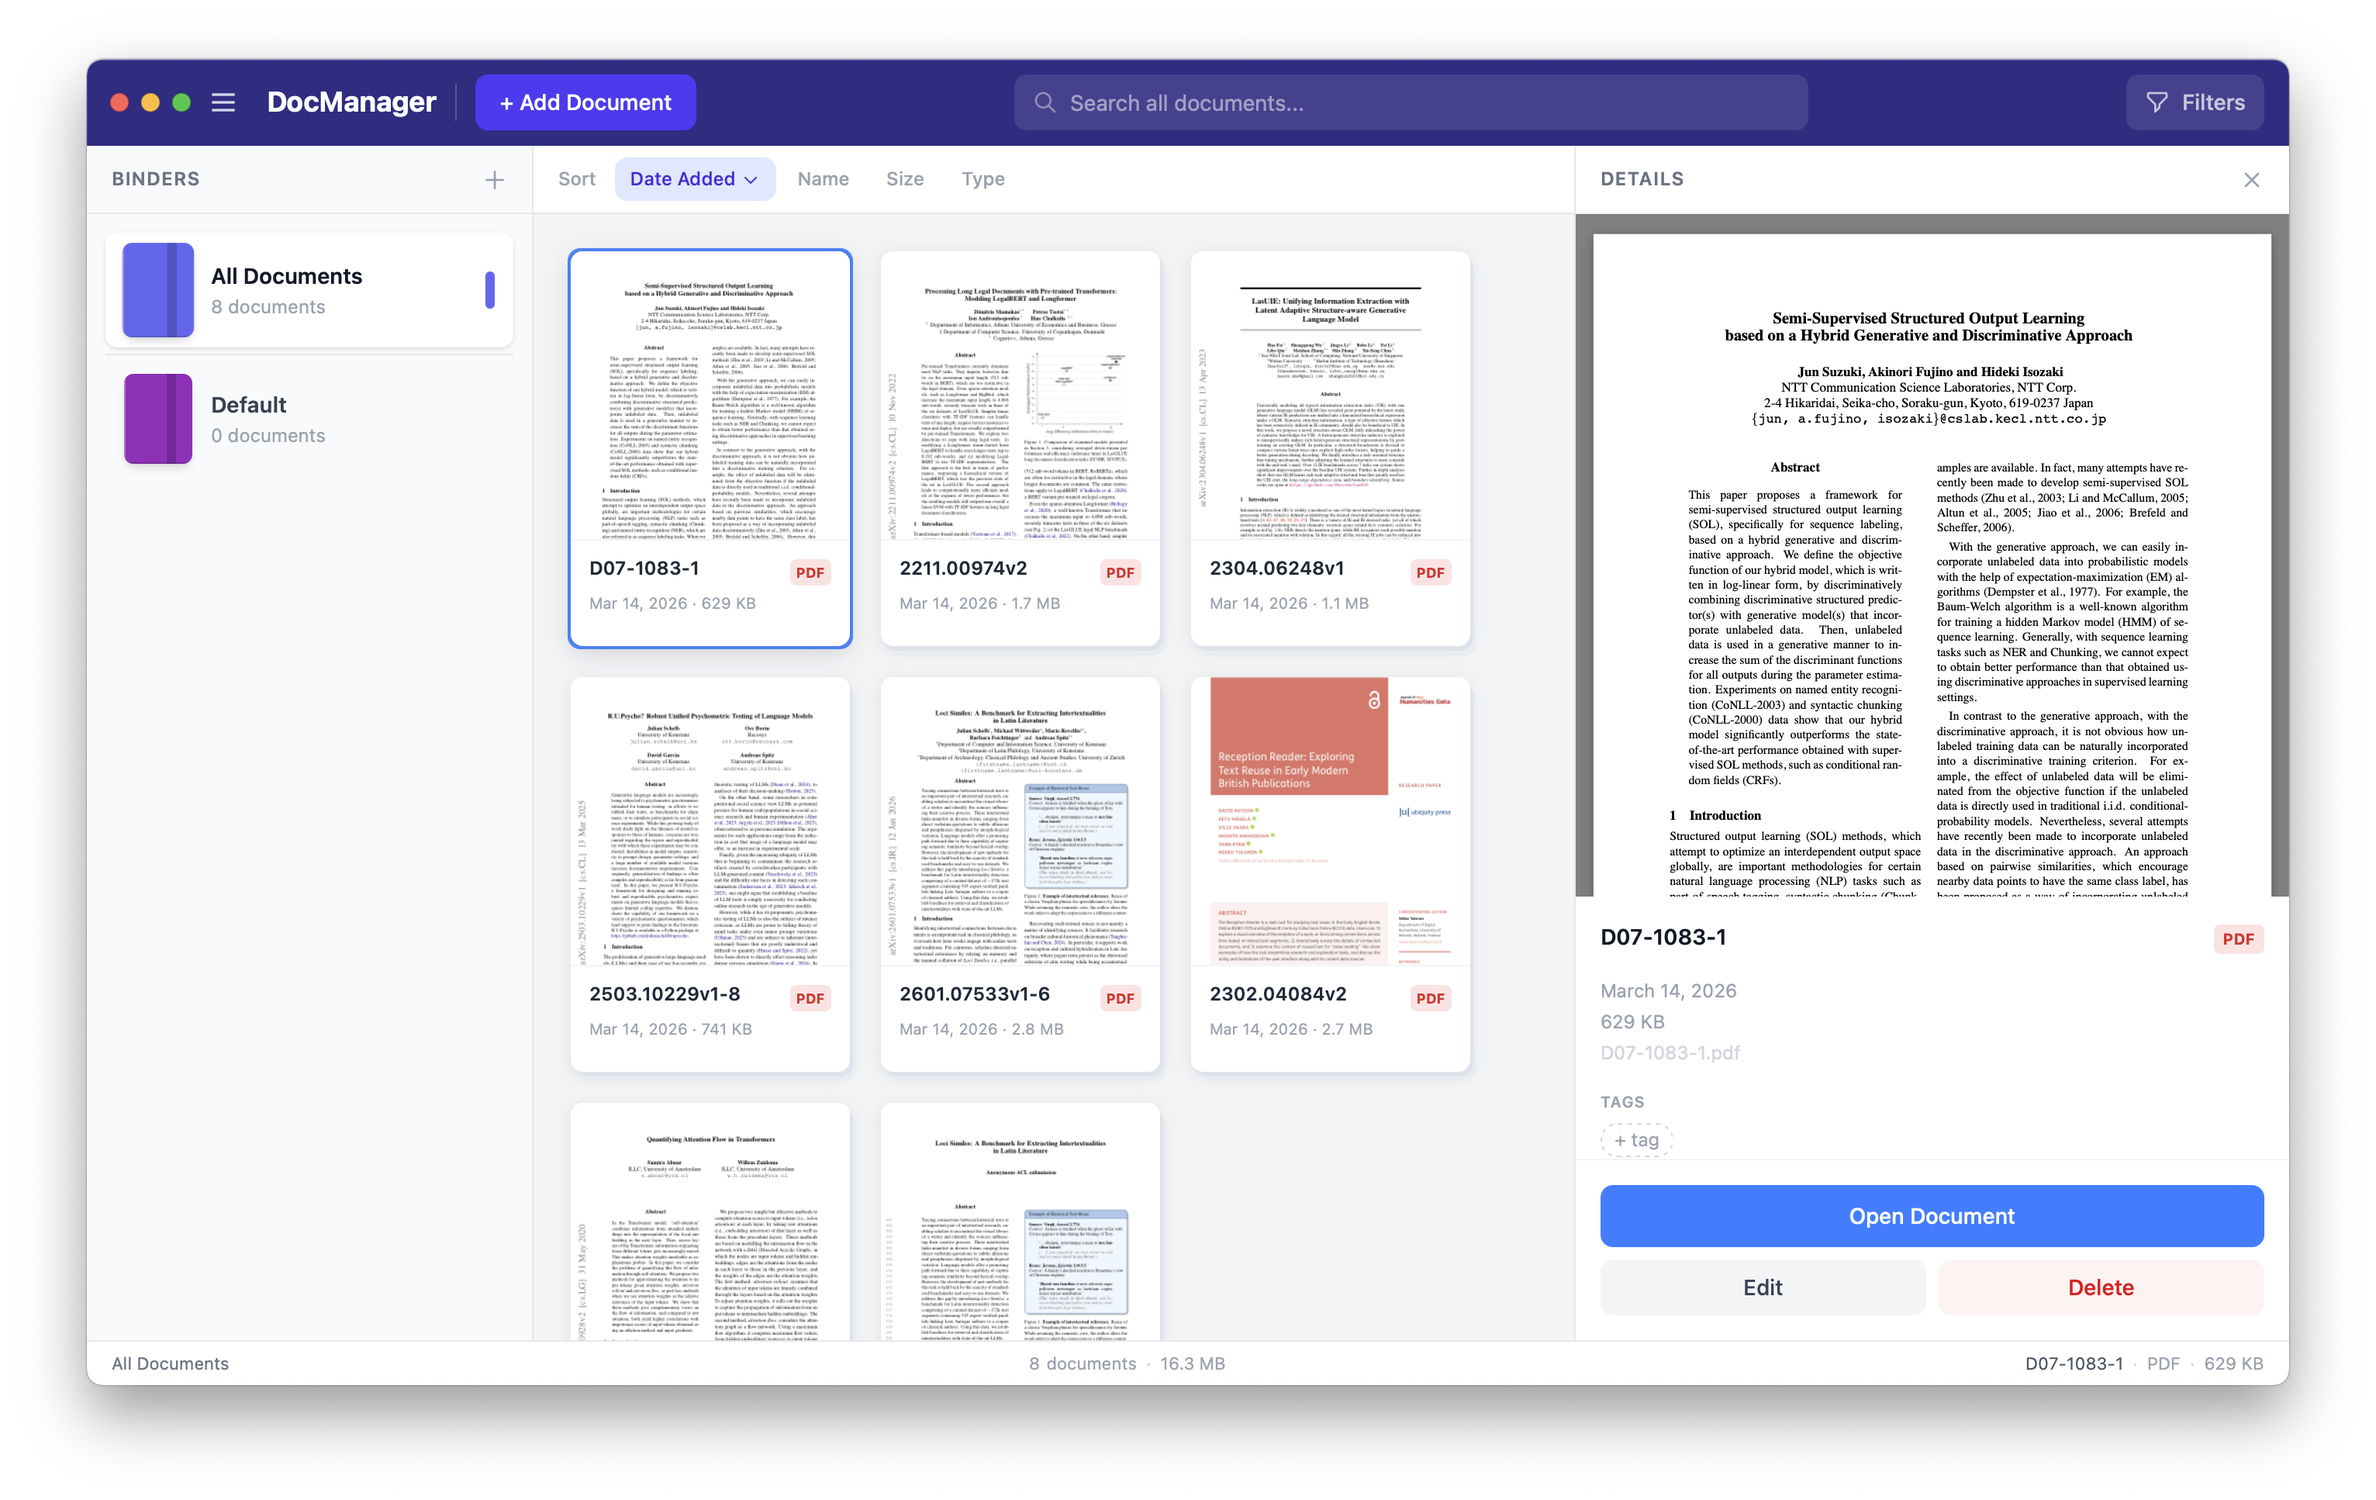
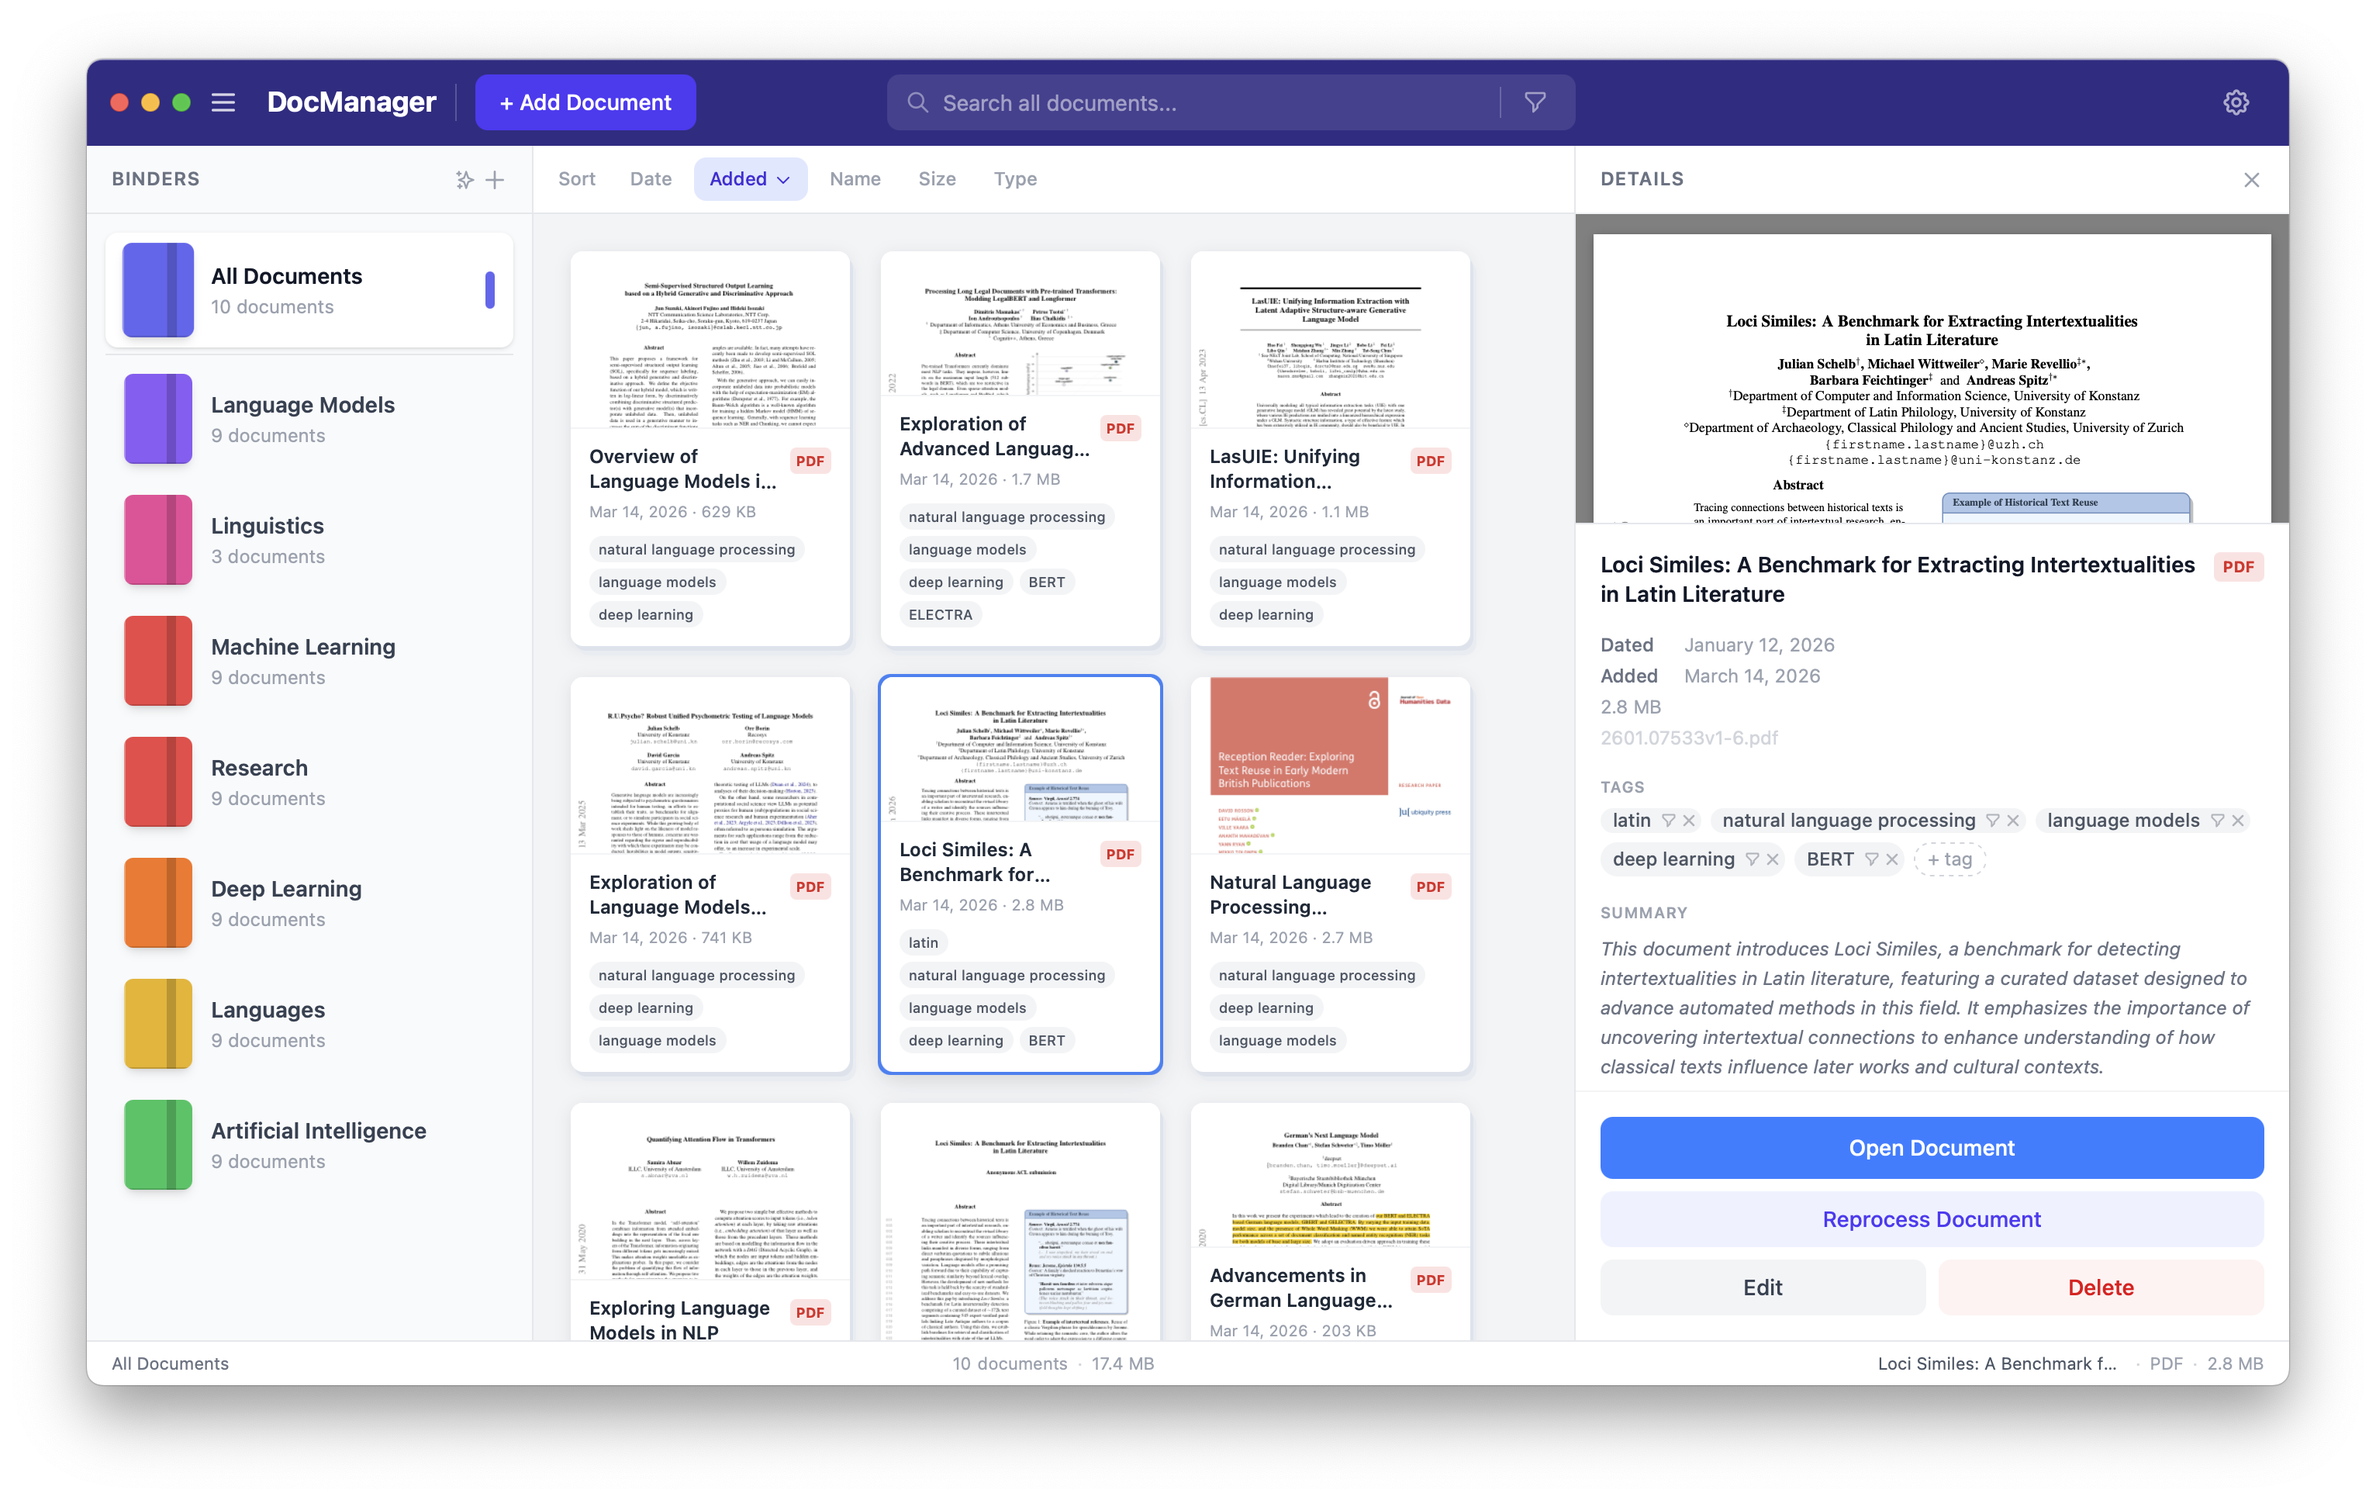
feat: implement AI-based binder suggestion functionality and integrate into UI

diff --git a/src/App.tsx b/src/App.tsx
@@ -12,6 +12,7 @@ import { SortControls } from "./components/SortControls";
 import { SettingsModal } from "./components/SettingsModal";
 import { useAppState } from "./hooks/useAppState";
 import { getAllTags, getBinderDocuments } from "./utils/binderUtils";
+import { suggestBindersWithAi } from "./lib/tauriCommands";
 import "./styles.css";
 
 function App() {
@@ -145,6 +146,52 @@ function App() {
     setSearchQuery("");
     setSelectedTags([]);
   };
+
+  // Create binders from all available tags — AI-grouped when API key is set,
+  // otherwise one binder per tag not already covered.
+  const BINDER_COLORS = [
+    "#6366f1", "#8b5cf6", "#ec4899", "#ef4444", "#f97316",
+    "#eab308", "#22c55e", "#14b8a6", "#3b82f6", "#06b6d4",
+  ];
+  const handleAutoOrganize = useCallback(async () => {
+    if (allTags.length === 0) return;
+
+    let colorIdx = binders.length;
+
+    if (openAiApiKey) {
+      // AI path: ask the model to group tags into meaningful binder categories
+      const suggestions = await suggestBindersWithAi(allTags).catch(() => null);
+      if (suggestions && suggestions.length > 0) {
+        const existingNames = new Set(binders.map((b) => b.name.toLowerCase()));
+        for (const s of suggestions) {
+          if (existingNames.has(s.name.toLowerCase())) continue;
+          await addBinder({
+            id: crypto.randomUUID(),
+            name: s.name,
+            color: BINDER_COLORS[colorIdx % BINDER_COLORS.length],
+            filterTags: s.tags,
+          });
+          colorIdx++;
+        }
+        return;
+      }
+    }
+
+    // Fallback: one binder per tag not already covered
+    const coveredTags = new Set(
+      binders.filter((b) => b.filterTags.length === 1).map((b) => b.filterTags[0])
+    );
+    const newTags = allTags.filter((t) => !coveredTags.has(t));
+    for (const tag of newTags) {
+      await addBinder({
+        id: crypto.randomUUID(),
+        name: tag.charAt(0).toUpperCase() + tag.slice(1),
+        color: BINDER_COLORS[colorIdx % BINDER_COLORS.length],
+        filterTags: [tag],
+      });
+      colorIdx++;
+    }
+  }, [binders, allTags, openAiApiKey, addBinder]);
 
   // Import files via native file picker
   const handleImport = useCallback(async () => {
@@ -338,6 +385,7 @@ function App() {
             onDeleteBinder={(b) =>
               setConfirmDelete({ type: "binder", id: b.id, title: b.name })
             }
+            onAutoOrganize={handleAutoOrganize}
           />
         </div>
 

diff --git a/src/components/BinderList.tsx b/src/components/BinderList.tsx
@@ -9,6 +9,7 @@ interface BinderListProps {
   onNewBinder: () => void;
   onEditBinder: (binder: Binder) => void;
   onDeleteBinder: (binder: Binder) => void;
+  onAutoOrganize: () => void;
 }
 
 function NotebookCover({
@@ -112,6 +113,7 @@ export function BinderList({
   onNewBinder,
   onEditBinder,
   onDeleteBinder,
+  onAutoOrganize,
 }: BinderListProps) {
   return (
     <aside className="w-72 min-w-72 h-full bg-gray-50 dark:bg-gray-850 border-r border-gray-200 dark:border-gray-700 flex flex-col shrink-0">
@@ -120,7 +122,17 @@ export function BinderList({
         <span className="text-xs font-semibold text-gray-500 dark:text-gray-400 uppercase tracking-wider">
           Binders
         </span>
-        <button
+        <div className="flex items-center gap-1">
+          <button
+            onClick={onAutoOrganize}
+            className="text-gray-400 hover:text-indigo-600 dark:hover:text-indigo-400 transition-colors"
+            title="Auto-generate binders from all tags"
+          >
+            <svg className="w-3.5 h-3.5" fill="none" stroke="currentColor" viewBox="0 0 24 24">
+              <path strokeLinecap="round" strokeLinejoin="round" strokeWidth={2} d="M5 3v4M3 5h4M6 17v4m-2-2h4m5-16l2.286 6.857L21 12l-5.714 2.143L13 21l-2.286-6.857L5 12l5.714-2.143L13 3z" />
+            </svg>
+          </button>
+          <button
             onClick={onNewBinder}
             className="text-gray-400 hover:text-indigo-600 dark:hover:text-indigo-400 transition-colors"
             title="New binder"
@@ -129,6 +141,7 @@ export function BinderList({
               <path strokeLinecap="round" strokeLinejoin="round" strokeWidth={2} d="M12 4v16m8-8H4" />
             </svg>
           </button>
+        </div>
       </div>
 
       <nav className="flex-1 overflow-y-auto p-3">

diff --git a/src/lib/tauriCommands.ts b/src/lib/tauriCommands.ts
@@ -44,3 +44,14 @@ export async function analyzeDocumentWithAi(
     existingTags,
   });
 }
+
+export interface BinderSuggestion {
+  name: string;
+  tags: string[];
+}
+
+export async function suggestBindersWithAi(
+  tags: string[]
+): Promise<BinderSuggestion[]> {
+  return invoke<BinderSuggestion[]>("suggest_binders_with_ai", { tags });
+}

diff --git a/src-tauri/src/ai.rs b/src-tauri/src/ai.rs
@@ -5,7 +5,7 @@ use std::process::Command;
 use base64::Engine;
 use serde::Deserialize;
 
-use crate::models::AiAnalysis;
+use crate::models::{AiAnalysis, BinderSuggestion};
 
 const IMAGE_TYPES: &[&str] = &["jpg", "jpeg", "png", "gif", "webp"];
 const MAX_CONTENT_CHARS: usize = 8_000;
@@ -149,7 +149,7 @@ pub async fn analyze_document(
 
     let system = serde_json::json!({
         "role": "system",
-        "content": "You are a document analysis assistant. Analyze the document provided and respond with a JSON object containing exactly four keys: \"title\" (the verbatim or near-verbatim title as it appears in the document — use the document's own heading, paper title, subject line, invoice number + vendor name, contract title, or equivalent identifier; only fall back to a concise descriptive title if the document has no explicit title), \"tags\" (an array of 3–7 lowercase topic/category tags; reuse tags from the existing list when appropriate), \"summary\" (exactly 2 complete sentences summarizing the main content and purpose), and \"correspondenceDate\" (the date the document was written, issued, received, or otherwise corresponds to — look for explicit dates in the body such as letter dates, invoice dates, contract dates, report dates; return a string in YYYY-MM-DD format, or null if no clear date is found). Return only valid JSON, no markdown, no extra text."
+        "content": "You are a document analysis assistant. Analyze the document provided and respond with a JSON object containing exactly four keys: \"title\" (the verbatim or near-verbatim title as it appears in the document — use the document's own heading, paper title, subject line, invoice number + vendor name, contract title, or equivalent identifier; only fall back to a concise descriptive title if the document has no explicit title), \"tags\" (an array of 3–7 lowercase thematic category tags — ONLY use broad, folder-like grouping terms that will apply to many documents, never to just one; good tags are domain areas (\"finance\", \"banking\", \"insurance\", \"tax\", \"invoice\", \"contract\", \"school\", \"university\", \"research\", \"machine-learning\", \"nlp\", \"medical\", \"legal\", \"government\", \"travel\", \"employment\", \"real-estate\") or organisation names (\"zdf\", \"deutsche-bank\", \"amazon\"); NEVER use specific technology names (\"BERT\", \"GPT\", \"transformer\"), proper nouns from the content, or any term that uniquely identifies this single document rather than a class of documents; for academic papers use only the research field (e.g. \"nlp\", \"computer-vision\", \"machine-learning\", \"physics\"); reuse tags from the existing list when appropriate), \"summary\" (exactly 2 complete sentences summarizing the main content and purpose), and \"correspondenceDate\" (the date the document was written, issued, received, or otherwise corresponds to — look for explicit dates in the body such as letter dates, invoice dates, contract dates, report dates; return a string in YYYY-MM-DD format, or null if no clear date is found). Return only valid JSON, no markdown, no extra text."
     });
 
     let tags_hint = if existing_tags.is_empty() {
@@ -240,4 +240,88 @@ pub async fn analyze_document(
         summary: result.summary.unwrap_or_default(),
         correspondence_date: result.correspondence_date,
     })
+}
+
+// ── Binder suggestion ─────────────────────────────────────────────────────────
+
+#[derive(Deserialize)]
+struct BinderResult {
+    name: Option<String>,
+    tags: Option<Vec<String>>,
+}
+
+pub async fn suggest_binders(
+    tags: &[String],
+    api_key: &str,
+) -> Result<Vec<BinderSuggestion>, String> {
+    if tags.is_empty() {
+        return Ok(vec![]);
+    }
+
+    let tag_list = tags.join(", ");
+
+    let body = serde_json::json!({
+        "model": "gpt-4o-mini",
+        "response_format": { "type": "json_object" },
+        "max_tokens": 400,
+        "messages": [
+            {
+                "role": "system",
+                "content": "You are a document organisation assistant. Given a list of document tags, group them into a small number of broad, meaningful binder categories. Each binder should be a high-level theme (e.g. 'Finance', 'Research', 'Legal', 'Insurance'). Use short, human-readable names (title-case, 1–3 words). Every tag must appear in exactly one binder. Return a JSON object with a single key \"binders\" whose value is an array of objects, each with keys \"name\" (string) and \"tags\" (array of strings from the input). Do not invent new tags. Return only valid JSON."
+            },
+            {
+                "role": "user",
+                "content": format!("Group these tags into binders: {}", tag_list)
+            }
+        ]
+    });
+
+    let client = reqwest::Client::new();
+    let resp = client
+        .post("https://api.openai.com/v1/chat/completions")
+        .header("Authorization", format!("Bearer {}", api_key))
+        .json(&body)
+        .send()
+        .await
+        .map_err(|e| format!("OpenAI request failed: {}", e))?;
+
+    if !resp.status().is_success() {
+        let status = resp.status().as_u16();
+        let text = resp.text().await.unwrap_or_default();
+        return Err(format!("OpenAI API error {}: {}", status, text));
+    }
+
+    let parsed: OpenAiResponse = resp
+        .json()
+        .await
+        .map_err(|e| format!("Failed to parse OpenAI response: {}", e))?;
+
+    let json_str = parsed
+        .choices
+        .into_iter()
+        .next()
+        .map(|c| c.message.content)
+        .unwrap_or_default();
+
+    #[derive(Deserialize)]
+    struct BinderList {
+        binders: Vec<BinderResult>,
+    }
+
+    let list: BinderList = serde_json::from_str(&json_str)
+        .map_err(|e| format!("Failed to parse binder suggestions: {} — raw: {}", e, json_str))?;
+
+    Ok(list
+        .binders
+        .into_iter()
+        .filter_map(|b| {
+            let name = b.name.filter(|n| !n.is_empty())?;
+            let tags = b.tags.unwrap_or_default();
+            if tags.is_empty() {
+                None
+            } else {
+                Some(BinderSuggestion { name, tags })
+            }
+        })
+        .collect())
 }

diff --git a/src-tauri/src/commands.rs b/src-tauri/src/commands.rs
@@ -7,7 +7,7 @@ use hex;
 use sha2::{Digest, Sha256};
 use uuid::Uuid;
 
-use crate::models::{AiAnalysis, AppState, Document};
+use crate::models::{AiAnalysis, AppState, BinderSuggestion, Document};
 use crate::storage::{get_app_dirs, load_state as do_load, save_state as do_save};
 use crate::thumbnail::generate_thumbnail;
 
@@ -162,4 +162,16 @@ pub async fn delete_document_files(
         }
     }
     Ok(())
+}
+
+#[tauri::command]
+pub async fn suggest_binders_with_ai(
+    app: tauri::AppHandle,
+    tags: Vec<String>,
+) -> Result<Vec<BinderSuggestion>, String> {
+    let state = do_load(&app)?;
+    if state.open_ai_api_key.is_empty() {
+        return Err("AI_NO_KEY".to_string());
+    }
+    crate::ai::suggest_binders(&tags, &state.open_ai_api_key).await
 }

diff --git a/src-tauri/src/models.rs b/src-tauri/src/models.rs
@@ -61,6 +61,13 @@ impl Default for AppState {
 
 #[derive(Serialize, Deserialize, Clone, Debug)]
 #[serde(rename_all = "camelCase")]
+pub struct BinderSuggestion {
+    pub name: String,
+    pub tags: Vec<String>,
+}
+
+#[derive(Serialize, Deserialize, Clone, Debug)]
+#[serde(rename_all = "camelCase")]
 pub struct AiAnalysis {
     pub title: String,
     pub tags: Vec<String>,

diff --git a/src-tauri/src/lib.rs b/src-tauri/src/lib.rs
@@ -16,6 +16,7 @@ pub fn run() {
             commands::open_document,
             commands::delete_document_files,
             commands::analyze_document_with_ai,
+            commands::suggest_binders_with_ai,
         ])
         .run(tauri::generate_context!())
         .expect("error while running tauri application");
